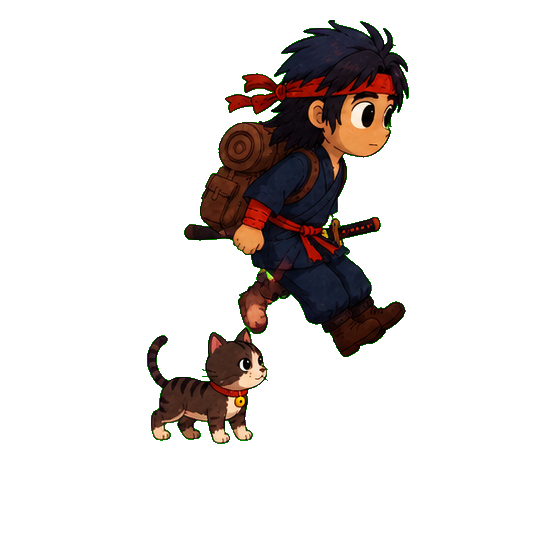
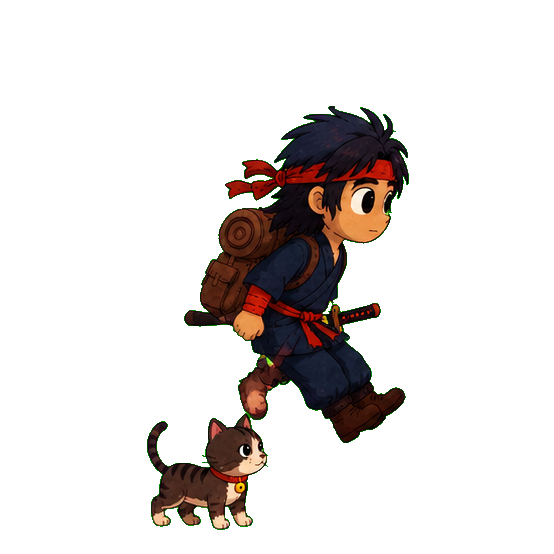
fix: ground-anchor Ronin jump/bow frames instead of head-anchoring
Head-top anchoring only kept the head steady; a pose with a shorter
silhouette (legs tucked, or bent forward while bowing) got padded at the
bottom instead, making the character appear to float upward on that
frame — read as an unwanted "jump" during the bow, and a size/position
pop when switching into either one-shot animation from idle.

Re-sliced both sheets so every frame preserves its true relative vertical
position from the original sheet (all poses already share one ground
baseline there) instead of being re-centered independently. Also fixed a
crop-bleed bug surfaced by writing the bow slicer: two poses' bounding
boxes can overlap in x while remaining pixel-disjoint, so a plain
rectangular crop pulled in a neighboring pose's pixels — now gated on the
crop's own connected-component label.

Also fixes a "Cannot update a component while rendering a different
component" warning: RoninWalkCycleSprite called the parent's onComplete
synchronously inside its setFrameIndex interval updater; it now fires from
its own effect once frameIndex commits at the final frame of a 'once'
state.

Changed region(s): [[0.2455, 0.0307, 0.7365, 0.9513]]

diff --git a/apps/mobile/src/components/home/RoninWalkCycleSprite.tsx b/apps/mobile/src/components/home/RoninWalkCycleSprite.tsx
@@ -73,15 +73,26 @@ export function RoninWalkCycleSprite({ style, state, onComplete }: RoninWalkCycl
     const interval = setInterval(() => {
       setFrameIndex((current) => {
         const { frame, didComplete } = getNextSpriteFrame(current, config.frames.length, config.loopMode);
-        if (didComplete) {
-          clearInterval(interval);
-          onCompleteRef.current?.();
-        }
+        if (didComplete) clearInterval(interval);
         return frame;
       });
     }, config.intervalMs);
     return () => clearInterval(interval);
   }, [state]);
+
+  // Fires the parent's onComplete (which sets RoninJourneyPrototype's
+  // activeAction state) from its own effect pass, once frameIndex has
+  // actually committed at the last frame of a 'once' state — calling it
+  // synchronously inside the setFrameIndex updater above (the interval
+  // callback) triggers React's "Cannot update a component while rendering a
+  // different component" warning, since that updater can run during this
+  // component's own render/reducer phase.
+  useEffect(() => {
+    const config = SPRITE_STATES[state];
+    if (config.loopMode === 'once' && frameIndex === config.frames.length - 1) {
+      onCompleteRef.current?.();
+    }
+  }, [frameIndex, state]);
 
   const frames = SPRITE_STATES[state].frames;
   if (frames.length === 0) return null;

diff --git a/apps/mobile/scripts/build-ronin-bow-frames.py b/apps/mobile/scripts/build-ronin-bow-frames.py
@@ -1,0 +1,139 @@
+#!/usr/bin/env python3
+"""Slice and ground-anchor the Ronin bow-down (tap-reaction) sprite sheet.
+
+Input: apps/mobile/assets/ronin/journey/tap-reaction/source/ronin-tap-reaction-sheet-raw.png
+— already a real-alpha RGBA sheet (not green-screen), with 6 side-profile
+bow-down poses left to right, boy+cat as one connected silhouette per pose.
+
+Output: apps/mobile/assets/ronin/journey/tap-reaction/ronin-tap-01.png ..
+ronin-tap-06.png, ground-anchored (each frame keeps its true relative
+vertical position from the original sheet, where every pose already shares
+one baseline) so a shorter silhouette (e.g. bent forward mid-bow) doesn't
+get padded underneath and visually float upward when frame-swapped against
+a taller neighboring pose — see build-ronin-jump-frames.py for the same fix
+applied to the jump sheet, where this was first diagnosed.
+"""
+from __future__ import annotations
+
+from pathlib import Path
+
+import numpy as np
+from PIL import Image
+from scipy.ndimage import label, find_objects
+
+MOBILE_ROOT = Path(__file__).resolve().parents[1]
+SOURCE_PATH = MOBILE_ROOT / "assets" / "ronin" / "journey" / "tap-reaction" / "source" / "ronin-tap-reaction-sheet-raw.png"
+OUTPUT_DIR = MOBILE_ROOT / "assets" / "ronin" / "journey" / "tap-reaction"
+MIN_FRAME_COUNT = 2
+MAX_FRAME_COUNT = 12
+MIN_COMPONENT_AREA_PX = 500
+PAD_PX = 24
+ALPHA_THRESHOLD = 20
+
+
+def load_source() -> np.ndarray:
+    if not SOURCE_PATH.exists():
+        raise FileNotFoundError(
+            f"Raw sprite sheet not found at {SOURCE_PATH}. Save the generated sheet there before running this script."
+        )
+    return np.array(Image.open(SOURCE_PATH).convert("RGBA"))
+
+
+def find_character_boxes(rgba: np.ndarray) -> tuple[np.ndarray, list[tuple[tuple[slice, slice], int]]]:
+    alpha = rgba[..., 3]
+    mask = alpha > ALPHA_THRESHOLD
+    labeled, _count = label(mask)
+    boxes = find_objects(labeled)
+
+    kept = []
+    for index, box in enumerate(boxes, start=1):
+        area = int((mask[box] & (labeled[box] == index)).sum())
+        if area >= MIN_COMPONENT_AREA_PX:
+            kept.append((box, index))
+    kept.sort(key=lambda item: item[0][1].start)
+
+    if not (MIN_FRAME_COUNT <= len(kept) <= MAX_FRAME_COUNT):
+        raise ValueError(
+            f"Found {len(kept)} pose components in the sheet, expected between "
+            f"{MIN_FRAME_COUNT} and {MAX_FRAME_COUNT}. Check the source sheet for "
+            "touching/merged silhouettes or stray specks before re-running."
+        )
+    return labeled, kept
+
+
+def build_frame(
+    rgba: np.ndarray,
+    labeled: np.ndarray,
+    label_id: int,
+    box: tuple[slice, slice],
+    canvas_size: int,
+    left_pad: int,
+    right_pad: int,
+    paste_y: int,
+) -> Image.Image:
+    row_slice, col_slice = box
+    top = max(row_slice.start - PAD_PX, 0)
+    bottom = min(row_slice.stop + PAD_PX, rgba.shape[0])
+    left = max(col_slice.start - left_pad, 0)
+    right = min(col_slice.stop + right_pad, rgba.shape[1])
+
+    crop = rgba[top:bottom, left:right].copy()
+    # Two poses' bounding boxes can overlap in x (they're pixel-disjoint but
+    # not x-range-disjoint — one pose's cat tail can sit at the same column
+    # range as the next pose's body, just on different rows). A plain
+    # rectangular crop would then bleed in the neighbor's pixels, so also
+    # gate on this component's own label, not just alpha.
+    own_component = labeled[top:bottom, left:right] == label_id
+    crop[~own_component] = 0
+    frame = Image.fromarray(crop, mode="RGBA")
+
+    foreground_cols = np.where(own_component.any(axis=0))[0]
+    center_x = int((foreground_cols[0] + foreground_cols[-1]) / 2) if len(foreground_cols) else frame.width // 2
+
+    canvas = Image.new("RGBA", (canvas_size, canvas_size), (0, 0, 0, 0))
+    paste_x = canvas_size // 2 - center_x
+    canvas.paste(frame, (paste_x, paste_y), frame)
+    return canvas
+
+
+def main() -> None:
+    rgba = load_source()
+    labeled, items = find_character_boxes(rgba)
+    boxes = [box for box, _label_id in items]
+    label_ids = [label_id for _box, label_id in items]
+
+    pads = []
+    for i, (_row_slice, col_slice) in enumerate(boxes):
+        prev_gap = col_slice.start - boxes[i - 1][1].stop if i > 0 else PAD_PX * 2
+        next_gap = boxes[i + 1][1].start - col_slice.stop if i < len(boxes) - 1 else PAD_PX * 2
+        left_pad = max(min(PAD_PX, prev_gap // 2), 0)
+        right_pad = max(min(PAD_PX, next_gap // 2), 0)
+        pads.append((left_pad, right_pad))
+
+    padded_tops = [max(row_slice.start - PAD_PX, 0) for row_slice, _ in boxes]
+    padded_bottoms = [min(row_slice.stop + PAD_PX, rgba.shape[0]) for row_slice, _ in boxes]
+    global_top = min(padded_tops)
+    global_bottom = max(padded_bottoms)
+    canvas_height = global_bottom - global_top
+
+    canvas_width = 0
+    for (_row_slice, col_slice), (left_pad, right_pad) in zip(boxes, pads):
+        width = (col_slice.stop - col_slice.start) + left_pad + right_pad
+        canvas_width = max(canvas_width, width)
+    canvas_size = max(canvas_width, canvas_height)
+
+    OUTPUT_DIR.mkdir(parents=True, exist_ok=True)
+    for index, (box, label_id, (left_pad, right_pad), top) in enumerate(
+        zip(boxes, label_ids, pads, padded_tops), start=1
+    ):
+        paste_y = (top - global_top) + (canvas_size - canvas_height) // 2
+        frame = build_frame(rgba, labeled, label_id, box, canvas_size, left_pad, right_pad, paste_y)
+        out_path = OUTPUT_DIR / f"ronin-tap-{index:02d}.png"
+        frame.save(out_path)
+        print(f"wrote {out_path} ({frame.width}x{frame.height})")
+
+    print(f"TOTAL FRAMES: {len(boxes)}")
+
+
+if __name__ == "__main__":
+    main()

diff --git a/apps/mobile/scripts/build-ronin-jump-frames.py b/apps/mobile/scripts/build-ronin-jump-frames.py
@@ -7,7 +7,12 @@ docs/superpowers/specs/2026-08-16-ronin-jump-bow-buttons-design.md.
 
 Output: apps/mobile/assets/ronin/journey/jump/ronin-jump-01.png ..
 ronin-jump-0N.png (N auto-detected from the sheet), each on an identical-size
-transparent canvas, head-top-anchored so frame-swapping doesn't jitter.
+transparent canvas. Frames are GROUND-anchored, not head-anchored: each
+frame keeps its true relative vertical position from the original sheet
+(where every pose already shares one baseline), so a pose with a shorter
+silhouette (e.g. legs tucked mid-air, or bent forward) doesn't get padded
+underneath and visually float upward when frame-swapped against a taller
+neighboring pose — that floating read as an unwanted "hop" during playback.
 """
 from __future__ import annotations
 
@@ -25,7 +30,6 @@ MAX_FRAME_COUNT = 12
 PAD_PX = 24
 GREEN_KEY = np.array([0, 255, 0], dtype=np.float32)
 GREEN_TOLERANCE = 90.0  # euclidean RGB distance under which a pixel counts as background
-HEAD_TOP_MARGIN_PX = 20  # distance from canvas top to each frame's topmost foreground pixel
 
 # A "frame" is boy+cat together, but the two aren't always one connected
 # blob (sometimes the cat sits apart from the boy) and adjacent frames can
@@ -140,9 +144,11 @@ def build_frame(
     rgb: np.ndarray,
     mask: np.ndarray,
     box: tuple[slice, slice],
-    canvas_size: int,
+    canvas_width: int,
+    canvas_height: int,
     left_pad: int,
     right_pad: int,
+    paste_y: int,
 ) -> Image.Image:
     row_slice, col_slice = box
     top = max(row_slice.start - PAD_PX, 0)
@@ -166,15 +172,13 @@ def build_frame(
     rgba = np.dstack([corrected_rgb, alpha * 255.0]).astype(np.uint8)
     frame = Image.fromarray(rgba, mode="RGBA")
 
-    # Head-top anchor: topmost foreground row within this crop.
-    foreground_rows = np.where(crop_mask.any(axis=1))[0]
-    head_top_y = int(foreground_rows[0]) if len(foreground_rows) else 0
+    # Horizontal centering is safe to do per-frame (it doesn't affect the
+    # ground-truth vertical position that fixes the floating bug).
     foreground_cols = np.where(crop_mask.any(axis=0))[0]
     center_x = int((foreground_cols[0] + foreground_cols[-1]) / 2) if len(foreground_cols) else frame.width // 2
 
-    canvas = Image.new("RGBA", (canvas_size, canvas_size), (0, 0, 0, 0))
-    paste_x = canvas_size // 2 - center_x
-    paste_y = HEAD_TOP_MARGIN_PX - head_top_y
+    canvas = Image.new("RGBA", (canvas_width, canvas_height), (0, 0, 0, 0))
+    paste_x = canvas_width // 2 - center_x
     canvas.paste(frame, (paste_x, paste_y), frame)
     return canvas
 
@@ -195,17 +199,31 @@ def main() -> None:
         right_pad = max(min(PAD_PX, next_gap // 2), 0)
         pads.append((left_pad, right_pad))
 
-    # Canvas must fit the largest cropped frame plus padding, shared by all
-    # frames so swapping never changes the Image element's own size.
-    max_dim = 0
-    for (row_slice, col_slice), (left_pad, right_pad) in zip(boxes, pads):
-        height = (row_slice.stop - row_slice.start) + PAD_PX * 2
+    # Ground-truth vertical alignment: every pose already shares one
+    # baseline in the original sheet, so preserve each frame's real
+    # top/bottom sheet rows relative to the tightest bounding row range
+    # across the WHOLE sheet, rather than re-anchoring each frame
+    # independently (which discards genuine height differences between
+    # poses — e.g. a crouch vs. a mid-air peak — and turns them into
+    # unwanted vertical pop when frames are swapped).
+    padded_tops = [max(row_slice.start - PAD_PX, 0) for row_slice, _ in boxes]
+    padded_bottoms = [min(row_slice.stop + PAD_PX, rgb.shape[0]) for row_slice, _ in boxes]
+    global_top = min(padded_tops)
+    global_bottom = max(padded_bottoms)
+    canvas_height = global_bottom - global_top
+
+    canvas_width = 0
+    for (_row_slice, col_slice), (left_pad, right_pad) in zip(boxes, pads):
         width = (col_slice.stop - col_slice.start) + left_pad + right_pad
-        max_dim = max(max_dim, height, width)
+        canvas_width = max(canvas_width, width)
+    # Square canvas (matches this sheet family's existing convention, and
+    # keeps RoninWalkCycleSprite's fixed square Image box filling correctly).
+    canvas_size = max(canvas_width, canvas_height)
 
     OUTPUT_DIR.mkdir(parents=True, exist_ok=True)
-    for index, (box, (left_pad, right_pad)) in enumerate(zip(boxes, pads), start=1):
-        frame = build_frame(rgb, mask, box, max_dim, left_pad, right_pad)
+    for index, (box, (left_pad, right_pad), top) in enumerate(zip(boxes, pads, padded_tops), start=1):
+        paste_y = (top - global_top) + (canvas_size - canvas_height) // 2
+        frame = build_frame(rgb, mask, box, canvas_size, canvas_size, left_pad, right_pad, paste_y)
         out_path = OUTPUT_DIR / f"ronin-jump-{index:02d}.png"
         frame.save(out_path)
         print(f"wrote {out_path} ({frame.width}x{frame.height})")
